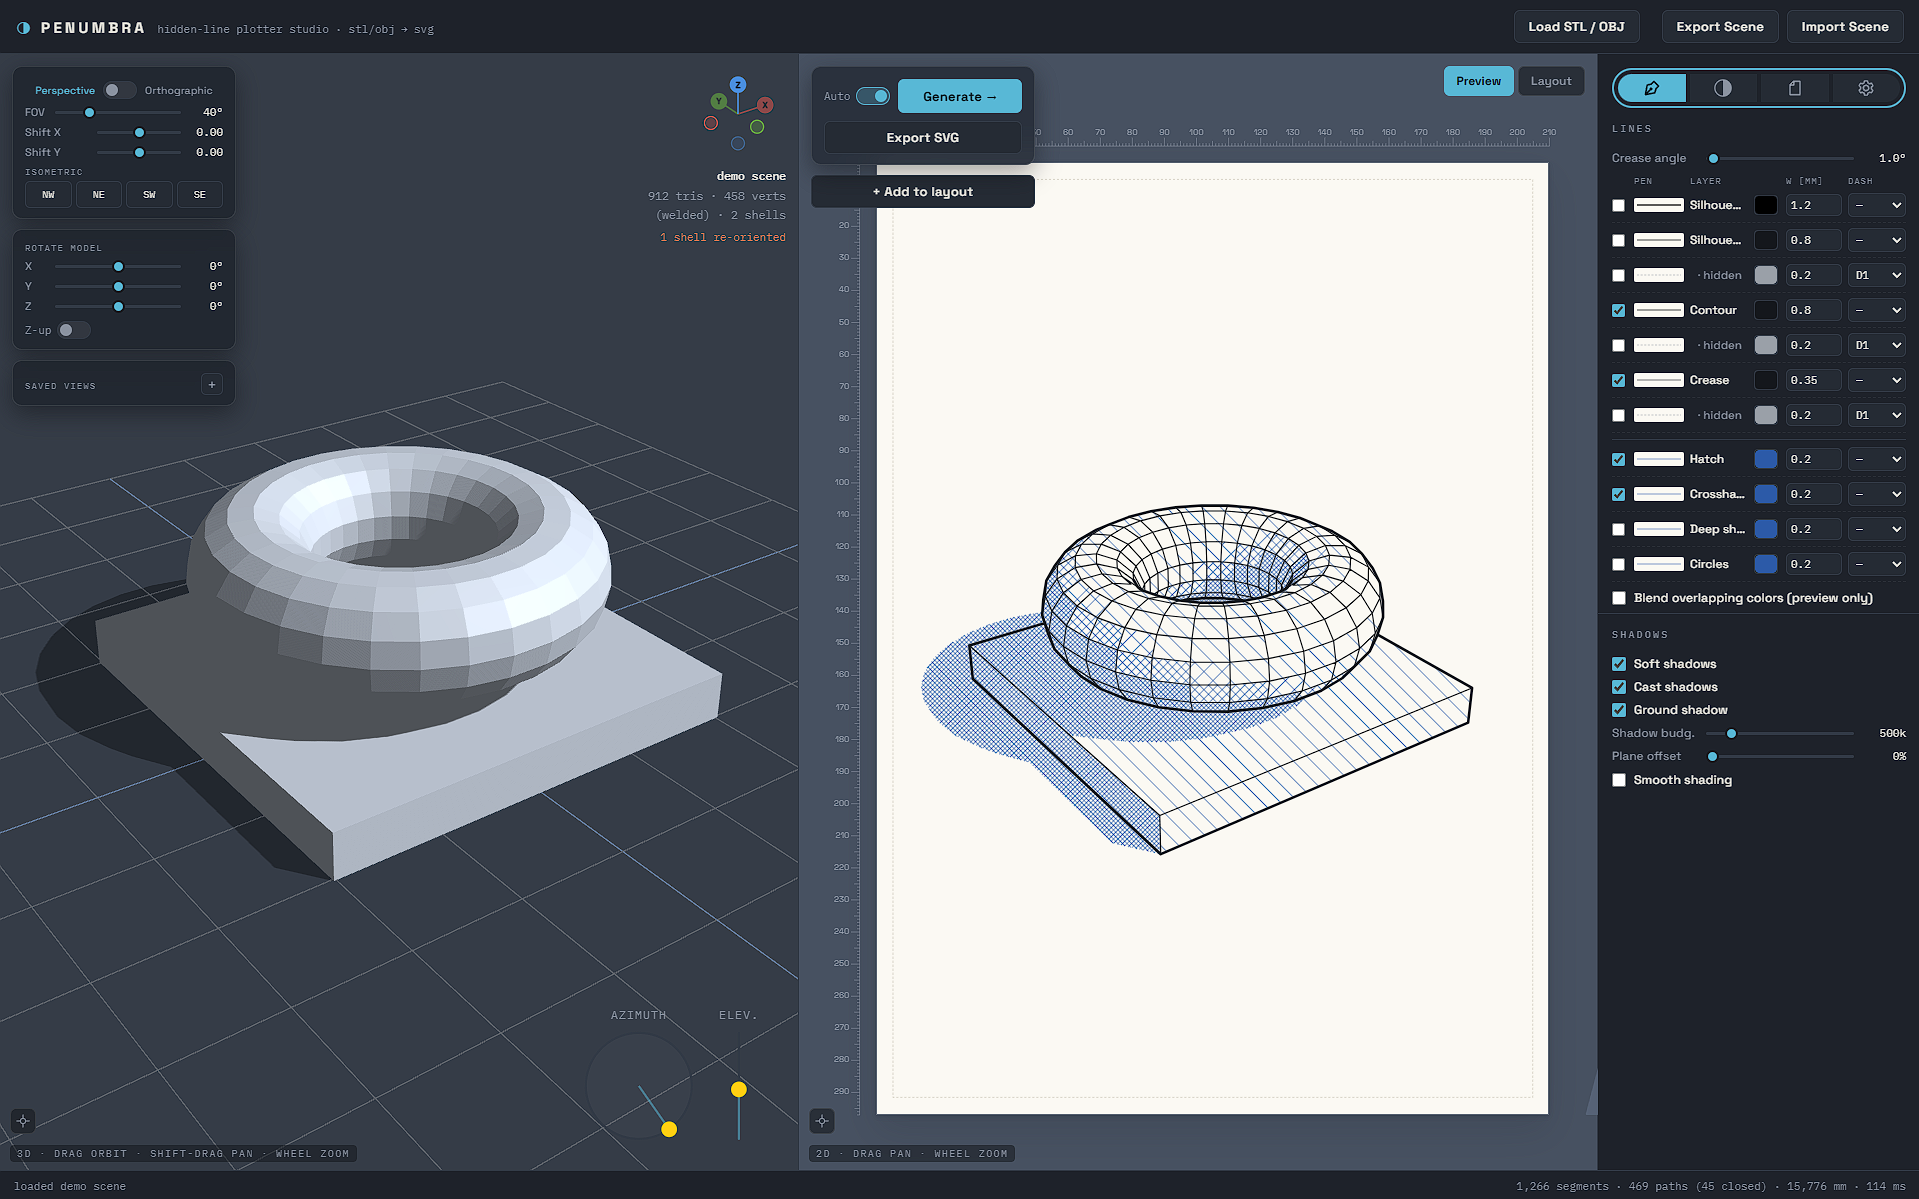
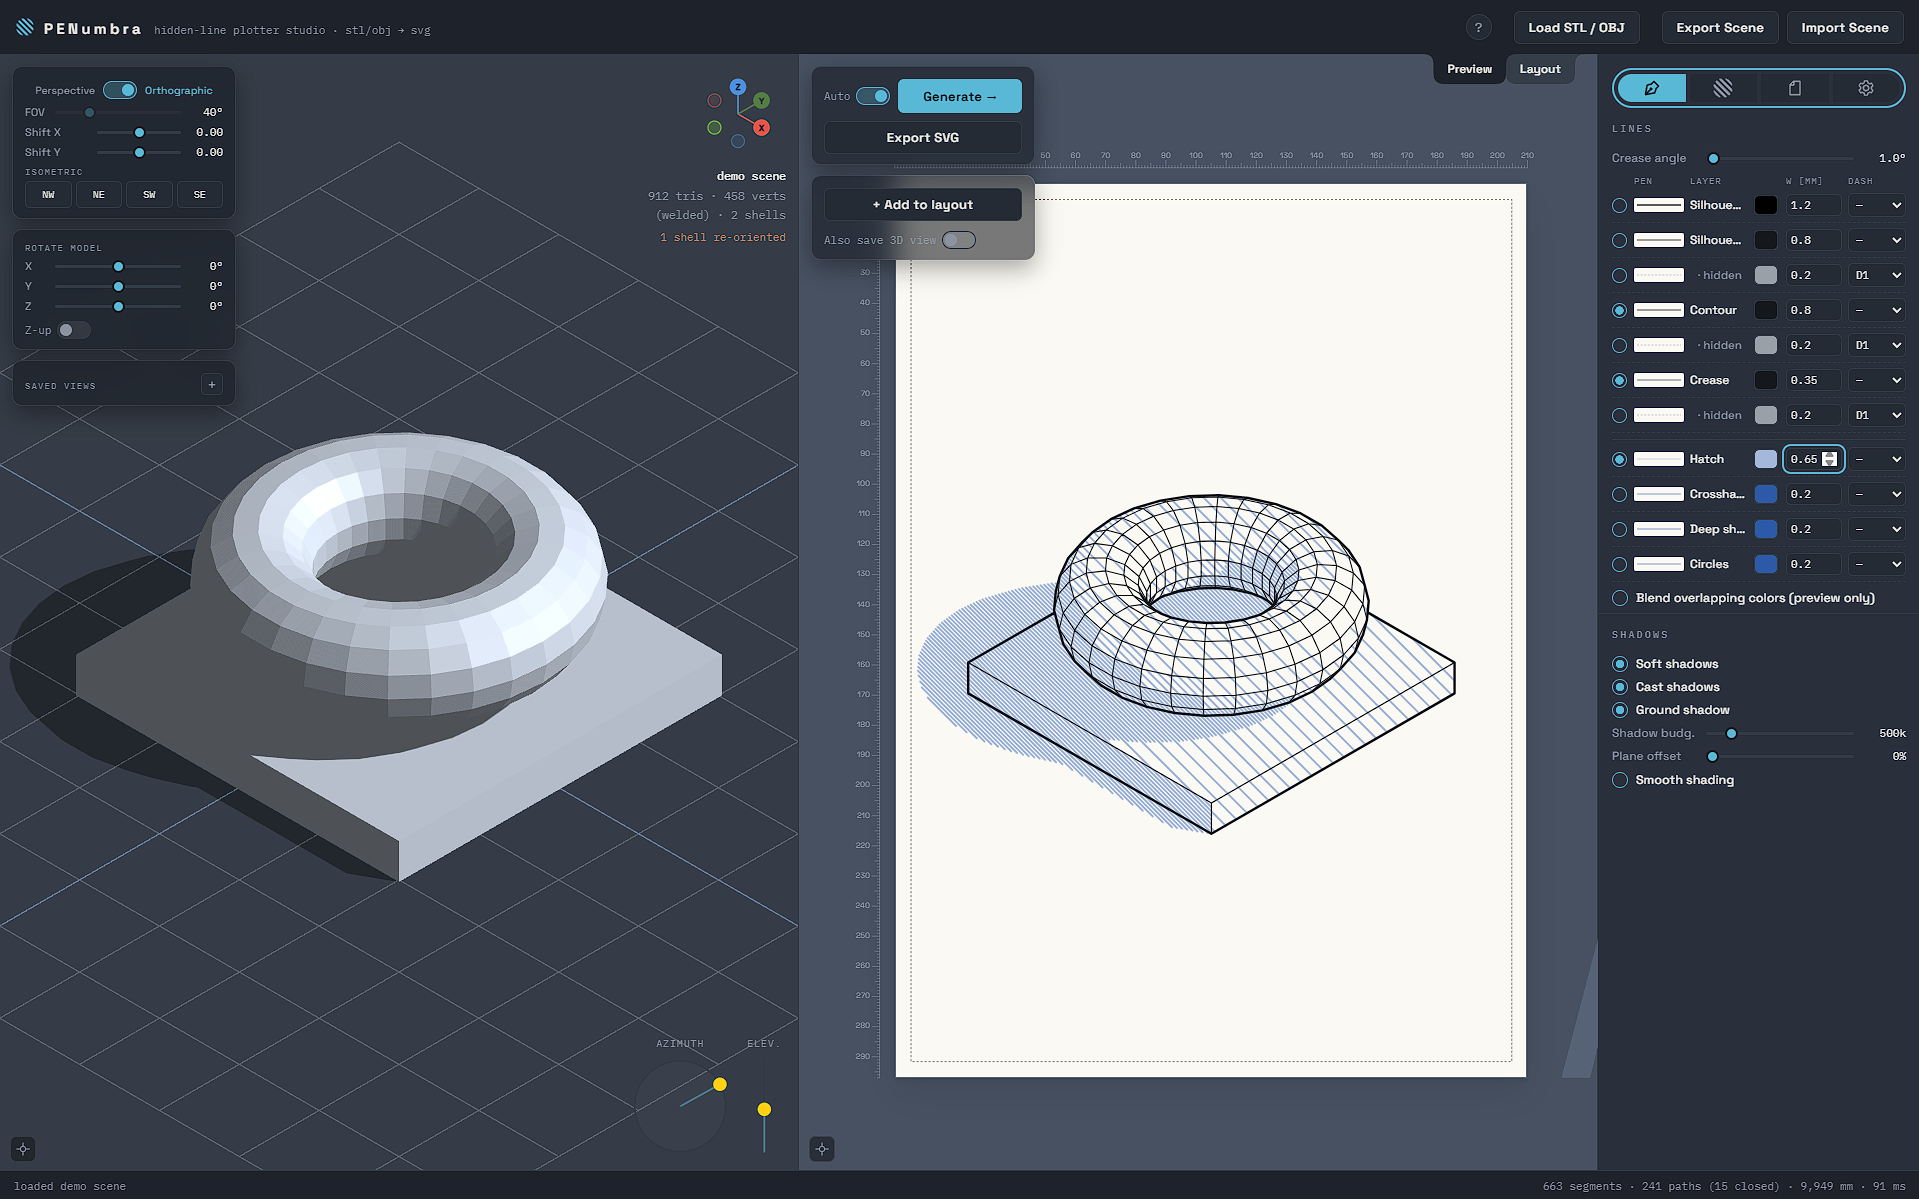
UI tweaks and updated docs

diff --git a/js/layout-canvas.js b/js/layout-canvas.js
@@ -33,6 +33,14 @@ const SVG_NS = 'http://www.w3.org/2000/svg';
 
 let blocks = [];
 let blockCounter = 0;                 // names only ever climb, never renumbered (same policy as Saved Views)
+// A block's OWN identity for lookups (row <-> block, e.g. refreshSelectionHighlight)
+// — separate from blockCounter/name because name is user-editable and, since
+// duplicating a block deliberately doesn't advance blockCounter (see
+// duplicateBlock), two blocks can legitimately end up with the same name.
+// Never reset except by a fresh page load; scene import reassigns every
+// block a new id off this same counter rather than trusting whatever was in
+// the file, so it stays valid however many times a scene gets re-imported.
+let blockIdCounter = 0;
 // Session-only multi-select — a Set, not a persistent named group. Single
 // selection is just the size===1 case throughout, not a separate code
 // path, EXCEPT where noted (rotate/scale hit-testing and math keep an
@@ -218,7 +226,7 @@ document.querySelectorAll('.paperTab').forEach(btn => {
     $('layoutSheet').style.display = tab === 'layout' ? '' : 'none';
     $('layoutOverlaySvg').style.display = tab === 'layout' ? '' : 'none';
     $('previewOverlaySvg').style.display = tab === 'preview' ? '' : 'none';
-    $('addToLayoutBtn').style.display = tab === 'preview' ? '' : 'none';
+    $('addToLayoutFloat').style.display = tab === 'preview' ? '' : 'none';
     $('addToLayoutMsg').style.display = tab === 'preview' ? '' : 'none';
     $('genRow').style.display = tab === 'preview' ? '' : 'none';
     $('blocksFloat').style.display = tab === 'layout' ? '' : 'none';
@@ -314,6 +322,7 @@ function freezeCurrentGeneration(){
   blockCounter++;
   const bboxLocal = { x0: bb.x, y0: bb.y, x1: bb.x + bb.width, y1: bb.y + bb.height };
   const block = {
+    id: ++blockIdCounter,
     name: 'Layer ' + String(blockCounter).padStart(2, '0'),
     visible: true,
     // Prevents accidental move/rotate/scale via the canvas — selection and
@@ -372,11 +381,12 @@ function showAddToLayoutMsg(text){
 // a later Add to Layout would use, so numbering stays contiguous whether
 // or not anything got duplicated in between. Not de-duplicated against
 // existing names (duplicating the same block twice gives two blocks both
-// named "X Copy") — names aren't a uniqueness key anywhere else in this
-// file either, and the existing double-click-to-rename already covers it.
+// named "X Copy") — names aren't a uniqueness key (see blockIdCounter/id
+// above), and the existing double-click-to-rename already covers it.
 function duplicateBlock(block){
   const dup = {
     ...block,
+    id: ++blockIdCounter,
     name: block.name + ' Copy',
     layerPaths: structuredClone(block.layerPaths),
     layerVisible: structuredClone(block.layerVisible),
@@ -806,7 +816,7 @@ function updateSelectionOverlay(){
 }
 function refreshSelectionHighlight(){
   for (const row of $('blocksList').children){
-    const block = blocks.find(b => b.name === row.dataset.blockName);
+    const block = blocks.find(b => b.id === +row.dataset.blockId);
     row.classList.toggle('svRowSelected', !!block && selectedBlocks.has(block));
   }
 }
@@ -1698,7 +1708,7 @@ function renderBlocksList(){
     const row = document.createElement('div');
     row.className = 'savedView' + (block.visible ? '' : ' svRowHidden') +
       (selectedBlocks.has(block) ? ' svRowSelected' : '');
-    row.dataset.blockName = block.name;
+    row.dataset.blockId = block.id;
     row.innerHTML =
       '<span class="svDragHandle" title="Drag to reorder" aria-label="Drag to reorder ' + block.name + '">' +
         '<svg viewBox="0 0 10 16" width="8" height="14" fill="currentColor">' +
@@ -1769,7 +1779,18 @@ function renderBlocksList(){
 }
 renderBlocksList();   // sets the initial empty-state class — no other call site runs unconditionally at load
 
-$('addToLayoutBtn').addEventListener('click', () => freezeCurrentGeneration());
+// Off by default — saving a view is an explicit opt-in, not something
+// "+ Add to layout" should do as a side effect unless asked.
+let addToLayoutSaveView = false;
+$('addToLayoutSaveViewBtn').addEventListener('click', () => {
+  addToLayoutSaveView = !addToLayoutSaveView;
+  $('addToLayoutSaveViewBtn').setAttribute('aria-checked', String(addToLayoutSaveView));
+  $('addToLayoutSaveViewBtn').classList.toggle('active', addToLayoutSaveView);
+});
+$('addToLayoutBtn').addEventListener('click', () => {
+  freezeCurrentGeneration();
+  if (addToLayoutSaveView) saveCurrentView();
+});
 $('clearBlocksBtn').addEventListener('click', () => {
   if (!blocks.length) return;
   if (!confirm('Delete all ' + blocks.length + ' layer(s)? This cannot be undone.')) return;
@@ -1784,5 +1805,5 @@ $('clearBlocksBtn').addEventListener('click', () => {
 ['pointerdown','wheel'].forEach(t => {
   $('blocksFloat').addEventListener(t, e => e.stopPropagation());
   $('paperTabs').addEventListener(t, e => e.stopPropagation());
-  $('addToLayoutBtn').addEventListener(t, e => e.stopPropagation());
+  $('addToLayoutFloat').addEventListener(t, e => e.stopPropagation());
 });

diff --git a/styles.css b/styles.css
@@ -1,5 +1,5 @@
 :root{
-  --bg:#171a1f; --panel:#1e222a; --panel2:#252b34; --line:#323a46;
+  --bg:#171a1f; --panel:#1e222a; --panel2:#252b34; --panel3:#292f3b; --line:#323a46;
   --text:#e9e7df; --muted:#8b93a1; --accent:#58b8d6; --accent-ink:#0c1a20;
   --warn:#e0764f; --paper:#fbf9f3; --bed:#475161; --paper-edge:#5b6472;
   --mono:'IBM Plex Mono',ui-monospace,monospace; --disp:'Space Grotesk',system-ui,sans-serif;
@@ -36,7 +36,7 @@ button,input,select{font:inherit;color:inherit}
 /* ---------- header ---------- */
 header{display:flex;align-items:center;justify-content:space-between;
   position:relative;z-index:2;
-  padding:0 16px;border-bottom:1px solid var(--line);background:var(--panel)}
+  padding:0 16px;border-bottom:0px solid var(--line);background:var(--panel)}
 .brand{display:flex;align-items:baseline;gap:10px}
 .brand .mark{color:var(--accent);flex:none;transform:translateY(2px)}
 .brand .name{font-weight:700;letter-spacing:.22em;font-size:15px}
@@ -89,7 +89,8 @@ header{display:flex;align-items:center;justify-content:space-between;
 .btn.primary{background:var(--accent);border-color:var(--accent);color:var(--accent-ink)}
 .btn.primary:hover{filter:brightness(1.1);color:var(--accent-ink)}
 .btn.toggle{color:var(--muted)}
-.addToLayoutBtn{width:224px;text-align:center}
+#addToLayoutFloat .addToLayoutBtn{width:100%;text-align:center}
+#addToLayoutSaveViewWrap{margin-top:10px}
 #genRow{display:flex;align-items:center;gap:8px;margin:0 0 8px}
 #genRow .switchWrap{flex:none}
 #genRow #genBtn{flex:1;text-align:center}
@@ -184,7 +185,7 @@ section,aside{position:relative;min-width:0;min-height:0}
    left, leaving a small sliver visible as a cue that they're still
    there, just tucked away. Same class applied to both, toggled together. */
 #camPanelStack.panelsHidden,#paperPanelStack.panelsHidden{transform:translateX(-100%)}
-#camFloat,#rotateFloat,#viewsFloat,#genExportFloat{width:224px;
+#camFloat,#rotateFloat,#viewsFloat,#genExportFloat,#addToLayoutFloat{width:224px;
   background:rgba(23,26,31,.58);border:1px solid rgba(255,255,255,.09);
   border-radius:10px;padding:12px 12px 10px;
   box-shadow:0 8px 24px rgba(0,0,0,.35);
@@ -394,19 +395,37 @@ input[type=color]::-moz-color-swatch{border:none;border-radius:4px}
 #progressBar{height:100%;width:0;background:var(--accent);transition:width .12s linear}
 
 /* Preview/Layout tabs — top-right of the 2D pane, clear of genExportFloat/
-   blocksFloat (top-left) and the stale badge (top-center) */
-#paperTabs{position:absolute;top:12px;right:12px;z-index:3;display:flex;gap:4px}
-.paperTab{background:rgba(23,26,31,.62);border:1px solid rgba(255,255,255,.09);
-  border-radius:6px;color:var(--muted);cursor:pointer;padding:6px 12px;
+   blocksFloat (top-left) and the stale badge (top-center). Styled like
+   actual browser tabs: flush against the pane's top edge (top:0 — absolute
+   positioning ignores the parent's own padding, so this sits right at the
+   border, no gap), shaped using clip-path (with negative margin-left).
+   The active tab is filled with the HEADER's own background (the pane sits
+   directly under the header, so matching it reads as "this tab is attached
+   to the header above") and has no visible seam where it meets the pane's
+   content below. The inactive tab instead gets the pane's own background
+   (var(--bed) but a bit darker (black 25%), so it recedes into the pane behind*/
+#paperTabs{position:absolute;top:0;right:12px;z-index:3;display:flex}
+.paperTab{background:color-mix(in srgb, var(--bed), black 25%);border:0px;border-top:none;
+  padding:7px 24px;margin-left:-20px;
   font-family:var(--disp);font-size:12px;font-weight:600;
-  -webkit-backdrop-filter:blur(10px);backdrop-filter:blur(10px)}
-.paperTab:hover{border-color:var(--accent);color:var(--accent)}
+  transition:background .12s,color .12s;
+  clip-path: shape(
+    from top left,
+    curve to 10px 10px with 10px 0,
+    vline to calc(100% - 10px),
+    curve to 20px 100% with 10px 100%,
+    hline to calc(100% - 20px),
+    curve to calc(100% - 10px) calc(100% - 10px) with calc(100% - 10px) 100%,
+    vline to 10px,
+    curve to 100% 0 with calc(100% - 10px) 0);}
+.paperTab:first-child{margin-left:0}
+.paperTab:hover{color:var(--accent)}
 .paperTab:focus,.paperTab:focus-visible{outline:none}
-.paperTab.active{background:var(--accent);border-color:var(--accent);color:var(--accent-ink)}
+.paperTab.active{background:var(--panel);border-color:var(--line);color:var(--text);z-index:1}
 body.dragging #paperTabs{display:none}
 
 /* ---------- control panel ---------- */
-#panel{background:var(--panel);overflow-y:auto;padding-bottom:24px;position:relative;z-index:4}
+#panel{background:var(--panel3);overflow-y:auto;padding-bottom:24px;position:relative;z-index:4}
 /* Pen/Cog settings-mode toggle — deliberately NOT the small slide-knob
    .pillToggle used elsewhere: bigger, no sliding, just the clicked half
    lit with the accent color while the other stays muted/grey. */

diff --git a/js/scene-io.js b/js/scene-io.js
@@ -148,7 +148,7 @@ $('debugSoIvOverlayBtn').addEventListener('click', () => {
 
 
 $('loadBtn').addEventListener('click', () => $('fileInput').click());
-for (const [wrap, btn] of [['zUpWrap','zUpBtn'], ['autoWrap','autoGenBtn']])
+for (const [wrap, btn] of [['zUpWrap','zUpBtn'], ['autoWrap','autoGenBtn'], ['addToLayoutSaveViewWrap','addToLayoutSaveViewBtn']])
   $(wrap).addEventListener('click', e => { if (e.target !== $(btn)) $(btn).click(); });
 // Single entry point for "the user handed us a file" — file picker and drag-drop
 // both funnel through this, and it's just a filename sniff: .pen goes to the
@@ -364,6 +364,12 @@ function applyImportedScene(data){
   closeLayerContextMenu();
   for (const b of blocks) removeBlockDom(b);
   blocks = Array.isArray(data.blocks) ? data.blocks : [];
+  // Fresh ids on import rather than trusting whatever's in the file — older
+  // scenes predate the id field entirely, and even a newer one could get
+  // re-imported twice in the same session, so regenerating here is what
+  // keeps every block's id actually unique against blockIdCounter's current
+  // state instead of just against the other blocks in this one file.
+  for (const b of blocks) b.id = ++blockIdCounter;
   blockCounter = Number.isFinite(data.blockCounter) ? data.blockCounter : 0;
   renderBlocksList();
   if (activeTab === 'layout') renderLayoutCanvas();

diff --git a/index.html b/index.html
@@ -132,8 +132,14 @@
         </div>
         <button class="btn" id="exportBtn">Export SVG</button>
       </div>
-      <button type="button" class="btn addToLayoutBtn" id="addToLayoutBtn"
-        title="Add current view to layout" aria-label="Add current view to layout">+ Add to layout</button>
+      <div id="addToLayoutFloat">
+        <button type="button" class="btn addToLayoutBtn" id="addToLayoutBtn"
+          title="Add current view to layout" aria-label="Add current view to layout">+ Add to layout</button>
+        <span class="switchWrap" id="addToLayoutSaveViewWrap" title="Also save the current 3D view to the saved views list when adding to layout">
+          <span>Also save 3D view</span>
+          <button class="pillToggle" id="addToLayoutSaveViewBtn" role="switch" aria-checked="false" aria-label="also save current 3D view when adding to layout"></button>
+        </span>
+      </div>
       <div id="addToLayoutMsg" role="status" aria-live="polite"></div>
       <div id="blocksFloat" style="display:none">
         <div class="svHeaderRow">
